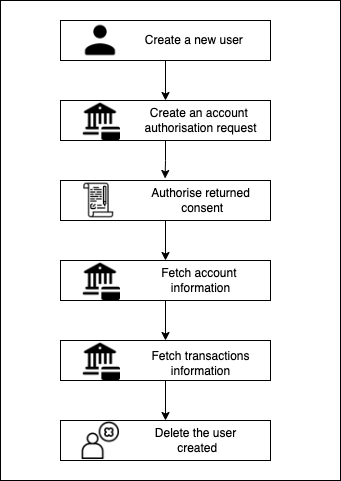
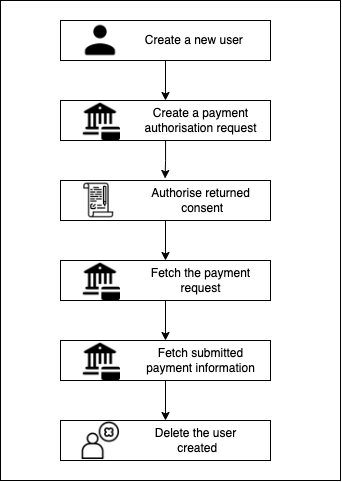
Update GitHub repository with the latest OAS file ('2023-04-03.1') and documentation

diff --git a/examples/README.md b/examples/README.md
@@ -1,22 +1,57 @@
 # Examples
 
 ## Structure
-This folder contains examples on how to use the OpenAPI generator to create a code client used to interact with the Yapily API quickly.
 
-Before generating the clients, you will need to register your application in our [Dashboard](https://dashboard.yapily.com/).
-
-Once your application is generated and you've retrieved the `application_key` and `application_secret`, they can either be updated in the example files, or set as environment variables:
-
-```
-export APP_UUID=<your-application-uuid> 
-export APP_SECRET=<your-application-secret> 
-```
-
+This folder contains examples on how to use the [openapi-generator](https://github.com/OpenAPITools/openapi-generator) to create the code client used to interact with the Yapily API.
 Each language has a `generate` script that showcases the flow used to generate the packages and run the entry scripts.
+
+## Testing credentials
+
+To connect to the Yapily API, you need to register your [application](https://dashboard.yapily.com), specify the financial institutions you want to work with and save your application. 
+
+You are then prompted to download your application credentials. You can use the application credentials to authorise your requests against the Yapily API.
+
+## Flows
+
+The examples contain helpful implementations of the following flows:
+
+### AIS
+
+![AIS](../docs/assets/ais-flow.png)
+
+#### Glossary
+
+| Request             | Description          |                                      |
+|--------------------|-------------------------------------------|---------------------------|
+| Create a new user    | This request creates a new user for the application   | [Go to docs](https://docs.yapily.com/api/reference/#operation/addUser)   |
+| Create an account authorisation request | This request submits and authorisation request which upon validation will return a consent authorisation request | [Go to docs](https://docs.yapily.com/api/reference/#operation/initiateAccountRequest) |
+| Authorise the returned consent   | Request that mimics user interaction with the consent and changes the state of the consent   |   -   |
+| Fetch account information | Request returning more information about the account of the consent owner      | [Go to docs](https://docs.yapily.com/api/reference/#operation/getAccount) |
+| Fetch account transactions information  | Request returning more information about the transactions linked to the consent owner    | [Go to docs](https://docs.yapily.com/api/reference/#operation/getTransactions)        |
+| Delete the user created  | Request used to remove the previously created user    | [Go to docs](https://docs.yapily.com/api/reference/#operation/deleteUser)             |
+
+### PIS
+
+![PIS](../docs/assets/pis-flow.png)
+
+#### Glossary
+
+| Request      | Description   |            |
+|----------------------------------------|-----------------------------------|--------------------------------------|
+| Create a new user | This request creates a new user for the application          | [Go to docs](https://docs.yapily.com/api/reference/#operation/addUser)                    |
+| Create a payment authorisation request | This request submits and authorisation request which upon validation will return a consent authorisation link | [Go to docs](https://docs.yapily.com/api/reference/#operation/createPaymentAuthorisation) |
+| Authorise the returned consent         | Request that validates user interaction with the consent and changes the state of the consent                 |  -            |
+| Create the payment request  | Request containing the information required to create the payment              | [Go to docs](https://docs.yapily.com/api/reference/#operation/createPayment)              |
+| Fetch submitted payment information    | Request returning more information about the previous payment   | [Go to docs](https://docs.yapily.com/api/reference/#operation/getPayments)                |
+| Delete the user created  | Request used to remove the previously created user       | [Go to docs](https://docs.yapily.com/api/reference/#operation/deleteUser) |
+
+
+
+
 
 ## Usage
 
-All example scripts share one common step, fetching the `openapi.json` file from the spec file.
+All example scripts share one common step, fetching the `openapi.json` spec file.
 
 However, each language handles the generation and testing differently:
 
@@ -24,14 +59,14 @@ However, each language handles the generation and testing differently:
     
     In `java`, we have a Maven project that will install all dependencies and compile the OAS file in models and api definitions.
     Those are then stored in `target/generated-sources` and can be used in services which act like wrappers around the APIClient calls.
-    Each service comes with it's own test and `examples/java/src/test/java/com/yapily/openapi/service/SuiteTest.java` tests the AIS and PIS flows by calling all endpoints.
+    Each service comes with its own test and `examples/java/src/test/java/com/yapily/openapi/service/SuiteTest.java` tests the AIS and PIS flows by calling all endpoints.
 
 
 * Python 
     
     In `python`, `generate.sh` will install a virtual env, then all dependencies and compile the OAS file in models and api definitions.
     Those are then stored in `codegen_client` and we need to relocate out test script `main.py` into the package, so it can use make the APIClient calls.
-    The generate script calls the `main.py [ARGS...]` file twice, passing the flow to be followed as an param:
+    The `generate` script calls the `main.py [ARGS...]` file twice, passing the flow to be followed as a parameter:
     ``` 
     python3 main.py AIS
     
@@ -41,12 +76,12 @@ However, each language handles the generation and testing differently:
 * Node 
     
     In `node`, the package.json file contains two scripts which are called from `generate.sh` First one generates the openapi client using the oas file provided. 
-    Afterwards, it packages the codeclient as a folder `dist`. This is the package of the APIClient and is used in `script.js`.
+    Afterwards, it packages the code client as a folder `dist`. This is the package of the APIClient and is used in `script.js`.
     Same as the Python example, the script is called twice, once for each flow:
     ```
     "scripts": {
-    "build-oas": "openapi-generator-cli generate -i openapi.json -g javascript -o generated-sources/openapi --additional-properties=usePromises=true",
-    -> "start-ais": "node index.js AIS",
-    -> "start-pis": "node index.js PIS"
+      "build-oas": "openapi-generator-cli generate -i openapi.json -g javascript -o generated-sources/openapi --additional-properties=usePromises=true",
+      "start-ais": "node index.js AIS",
+      "start-pis": "node index.js PIS"
     },
     ```

diff --git a/docs/java.md b/docs/java.md
@@ -17,43 +17,6 @@ You can find the released artifacts on [maven central](https://mvnrepository.com
 </dependency>
 ```
 
-#### Using the precompiled JAR
-
-The latest stable version of the generated jar is available at:
- `https://repo1.maven.org/maven2/org/openapitools/openapi-generator-cli/5.4.0/openapi-generator-cli-5.4.0.jar`
-
-**Mac/Linux** users:
-
-```sh
-wget https://repo1.maven.org/maven2/org/openapitools/openapi-generator-cli/5.4.0/openapi-generator-cli-5.4.0.jar -O openapi-generator-cli.jar
-```
-
-**Windows** users, you will need to install [wget](http://gnuwin32.sourceforge.net/packages/wget.htm) or you can use Invoke-WebRequest in PowerShell (3.0+), e.g.
-
-```sh
-Invoke-WebRequest -OutFile openapi-generator-cli.jar https://repo1.maven.org/maven2/org/openapitools/openapi-generator-cli/5.4.0/openapi-generator-cli-5.4.0.jar
-```
-
-After downloading the JAR, run `java -jar openapi-generator-cli.jar help` to show the usage.
-
-For Mac users, please make sure Java 8 is installed (Tips: run `java -version` to check the version), and export `JAVA_HOME` in order to use the supported Java version:
-
-```sh
-export JAVA_HOME=`/usr/libexec/java_home -v 1.8`
-export PATH=${JAVA_HOME}/bin:$PATH
-```
-
-#### Using the CLI script
-
-```
-mkdir -p ~/bin/openapitools
-curl https://raw.githubusercontent.com/OpenAPITools/openapi-generator/master/bin/utils/openapi-generator-cli.sh > ~/bin/openapitools/openapi-generator-cli
-chmod u+x ~/bin/openapitools/openapi-generator-cli
-export PATH=$PATH:~/bin/openapitools/
-```
-
-Now, `openapi-generator-cli` is "installed". On invocation, it will query the GitHub repository for the most recently released version. If this matches the last downloaded jar,
-it will execute as normal. If a newer version is found, the script will download the latest release and execute it.
 
 #### Further Documentation
 
@@ -64,7 +27,7 @@ Please refer to the official openapi-generator docs for more information about t
 Now that the openapi generator is installed, we can use the spec file to generate the classes required.
 Using the generator, you can create either a server side artifact or a client to use in your projects.
 
-#### Generating the client
+### Generating the client using the Jar
 
 A list of generators is available at [generators](https://openapi-generator.tech/docs/generators/)
 
@@ -81,12 +44,35 @@ A list of generators is available at [generators](https://openapi-generator.tech
 | `-g java`         | Prepare client-side artifact (stub) using java.                                                                                                                                |
 | `-o codegen_client` | Save the generated code in `codegen_client/`.                                                                                                                                 |
 
-#### Using the generated classes
+### Using the maven-plugin
 
-Once the previous step was ran, your folder will now contain a client package. This package is the stub of the APIs described in the specs file and is meant to serve as a boilerplate.
+OpenAPI has created a Maven [plugin](https://github.com/OpenAPITools/openapi-generator/blob/master/modules/openapi-generator-maven-plugin/README.md) to support the OpenAPI generator project. This can be found on the official documentation of the project.
 
-To install all the required libraries, change to the directory `codegen_client` and run the following command:
+#### Usage
+To configure the plugin in your project, add the plugin and the execution to your `build`->`plugins` section (default phase is generate-sources phase)
+```
+<plugin>
+    <groupId>org.openapitools</groupId>
+    <artifactId>openapi-generator-maven-plugin</artifactId>
+    <!-- RELEASE_VERSION -->
+    <version>5.4.0</version>
+    <!-- /RELEASE_VERSION -->
+    <executions>
+        <execution>
+            <goals>
+                <goal>generate</goal>
+            </goals>
+            <configuration>
+                <!-- project.basedir is the home of the pom and you can supply the path to the spec. -->
+                <inputSpec>${project.basedir}/src/main/resources/api.yaml</inputSpec>
+                <generatorName>java</generatorName>
+                <configOptions>
+                   <sourceFolder>src/gen/java/main</sourceFolder>
+                </configOptions>
+            </configuration>
+        </execution>
+    </executions>
+</plugin>
+```
 
-> mvn install
-
-Schemas described in the specs file are stored in the models package.
+Running `mvn clean compile` will trigger the build and use the plugin to create the classes described in the OAS file.

diff --git a/README.md b/README.md
@@ -1,9 +1,8 @@
 # Yapily-openapi3-specifications
 
-<img src="https://validator.swagger.io/validator?url=https://openapi.yapily.com/openapi.json">
+![Schema Validator](https://validator.swagger.io/validator?url=https://openapi.yapily.com/openapi.json)
 
 Yapily uses the `OpenAPI 3.0.1` specification to schematize our [docs](https://docs.yapily.com/) and generate our supported client libraries. This provides a consistent developer experience across our external interfaces.
-
 
 - [Yapily-openapi3-specifications](#yapily-openapi3-specifications)
   - [Installing the Java dependencies](#installing-the-java-dependencies)
@@ -11,6 +10,7 @@ Yapily uses the `OpenAPI 3.0.1` specification to schematize our [docs](https://d
   - [Node support](#node-support)
   - [Python support](#python-support)
   - [Known issues with openapi-generator](#known-issues-with-openapi-generator)
+  - [Examples](#examples)
 
 ## Installing the Java dependencies
 
@@ -18,7 +18,7 @@ The OpenAPI generator is a maven plugin used to generate server and client libra
 
 First requirement to use the OpenAPI generator is to install Java. 
 
-The following [tutorial](https://cloud.google.com/java/docs/setup#install_a_jdk_java_development_kit) provides an extensive step by step guide on how to setup and configure your development environment.
+The following [tutorial](https://cloud.google.com/java/docs/setup#install_a_jdk_java_development_kit) provides an extensive step-by-step guide on how to set up and configure your development environment.
 
 ## Java support
 
@@ -36,4 +36,8 @@ Please refer to this [document](/main/../docs/python.md) for Python.
 
 The [openapi-generator](https://github.com/OpenAPITools/openapi-generator) generation styles vary depending on the chosen language:
 
-- We regard the extension of enumerations in the Yapily API to be a non-breaking change and we may add new values without advance warning. Please note that some OpenAPI generators automatically employ enum validation by default, however we expect clients to disable strict enum validation for responses in your generated libraries. Otherwise your clients will experience errors when new enum values are added.
+- We regard the extension of enumerations in the Yapily API to be a non-breaking change, and we may add new values without advance warning. Please note that some OpenAPI generators automatically employ enum validation by default, however we expect clients to disable strict enum validation for responses in your generated libraries. Otherwise, your clients will experience errors when new enum values are added.
+
+## Examples
+
+For a better view of the implementation process, check out our [examples](/main/../examples/README.md) section which presents a strategy for implementing easily with Yapily in your language of choice.

diff --git a/CHANGELOG.md b/CHANGELOG.md
@@ -5,9 +5,26 @@ All notable changes to the API definition will be recorded here.
 The format is based on [Keep a Changelog](https://keepachangelog.com/en/1.0.0/),
 and this project adheres to [Semantic Versioning](https://semver.org/spec/v2.0.0.html)
 
+## [2.21.3] - 2023-03-13
+### Added
+- Update `titles` for all the fields associated with `PaymentRequest`
+
+
+## [2.21.2] - 2023-03-10
+### Added
+- Updated `paymentScheme` description with new payment scheme of type `TRANSFER`
+
+## [2.21.1] - 2023-03-07
+### Changed
+- Included missing `count` field in the `meta` property of the `ApiListResponseOfRealTimeTransaction` object
+
+## [2.21.0] - 2023-03-01
+### Added
+- Added additional fields to `selectedScaMethod` to show `information` and `data` useful to PSU when authenticating embedded consents
+
 ## [2.20.0] - 2023-02-27
 ### Added
-- Added get all refunds endpoint  
+- Added get all refunds endpoint
 
 ## [2.19.1] - 2023-02-21
 ### Added
@@ -19,7 +36,6 @@ and this project adheres to [Semantic Versioning](https://semver.org/spec/v2.0.0
 - Modified response for `/pre-auth-requests` and `/payment-pre-auth-requests` endpoint
 - Modified endpoint path from `/users/{userUuid}/profile` to `/users/{userUuid}/profile/transaction-groups`
 - Modified description, examples, typos for various endpoints and attributes
-
 
 ## [2.19.0] - 2023-02-07
 ### Added
@@ -34,7 +50,7 @@ and this project adheres to [Semantic Versioning](https://semver.org/spec/v2.0.0
 - Get client by id and delete beneficiary
 
 ### Changed
-- Virtual account error response examples 
+- Virtual account error response examples
 
 ## [2.16.0] - 2022-11-30
 ### Changed
@@ -121,5 +137,5 @@ and this project adheres to [Semantic Versioning](https://semver.org/spec/v2.0.0
 - Unnecessary enumeration representing http status codes from the ApiError definition.
 
 ## [2.0.0] - 2021-12-01
-### Added 
+### Added
 - The first published OpenAPI Specification used to drive Yapily's contract first development approach.

diff --git a/docs/issues.md b/docs/issues.md
@@ -2,4 +2,4 @@
 
 The [openapi-generator](https://github.com/OpenAPITools/openapi-generator) generation styles vary depending on the chosen language:
 
-- We regard the extension of enumerations in the Yapily API to be a non-breaking change and we may add new values without advance warning. Please note that some OpenAPI generators automatically employ enum validation by default, however we expect clients to disable strict enum validation for responses in your generated libraries. Otherwise your clients will experience errors when new enum values are added.
+- We regard the extension of enumerations in the Yapily API to be a non-breaking change, and we may add new values without advance warning. Please note that some OpenAPI generators automatically employ enum validation by default, however we expect clients to disable strict enum validation for responses in your generated libraries. Otherwise, your clients will experience errors when new enum values are added.

diff --git a/docs/java-install.md b/docs/java-install.md
@@ -4,4 +4,4 @@ The OpenAPI generator is a maven plugin used to generate server and client libra
 
 First requirement to use the OpenAPI generator is to install Java. 
 
-The following [tutorial](https://cloud.google.com/java/docs/setup#install_a_jdk_java_development_kit) provides an extensive step by step guide on how to setup and configure your development environment.
+The following [tutorial](https://cloud.google.com/java/docs/setup#install_a_jdk_java_development_kit) provides an extensive step-by-step guide on how to set up and configure your development environment.

diff --git a/docs/intro.md b/docs/intro.md
@@ -1,5 +1,5 @@
 # Yapily-openapi3-specifications
 
-<img src="https://validator.swagger.io/validator?url=https://openapi.yapily.com/openapi.json">
+![Schema Validator](https://validator.swagger.io/validator?url=https://openapi.yapily.com/openapi.json)
 
 Yapily uses the `OpenAPI 3.0.1` specification to schematize our [docs](https://docs.yapily.com/) and generate our supported client libraries. This provides a consistent developer experience across our external interfaces.

diff --git a/docs/toc.md b/docs/toc.md
@@ -1,7 +1,7 @@
-
 - [Yapily-openapi3-specifications](#yapily-openapi3-specifications)
   - [Installing the Java dependencies](#installing-the-java-dependencies)
   - [Java support](#java-support)
   - [Node support](#node-support)
   - [Python support](#python-support)
   - [Known issues with openapi-generator](#known-issues-with-openapi-generator)
+  - [Examples](#examples)

diff --git a/docs/examples.md b/docs/examples.md
@@ -1,0 +1,3 @@
+## Examples
+
+For a better view of the implementation process, check out our [examples](/main/../examples/README.md) section which presents a strategy for implementing easily with Yapily in your language of choice.
